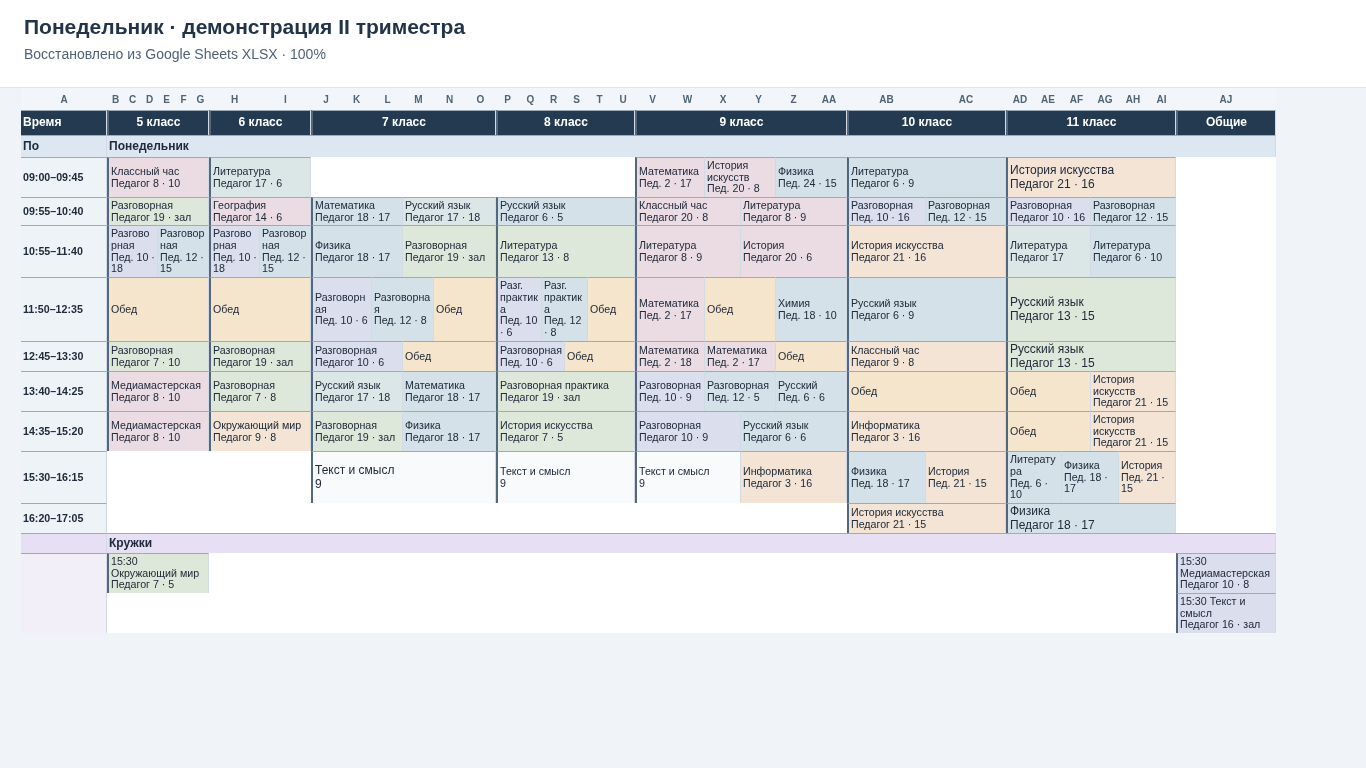
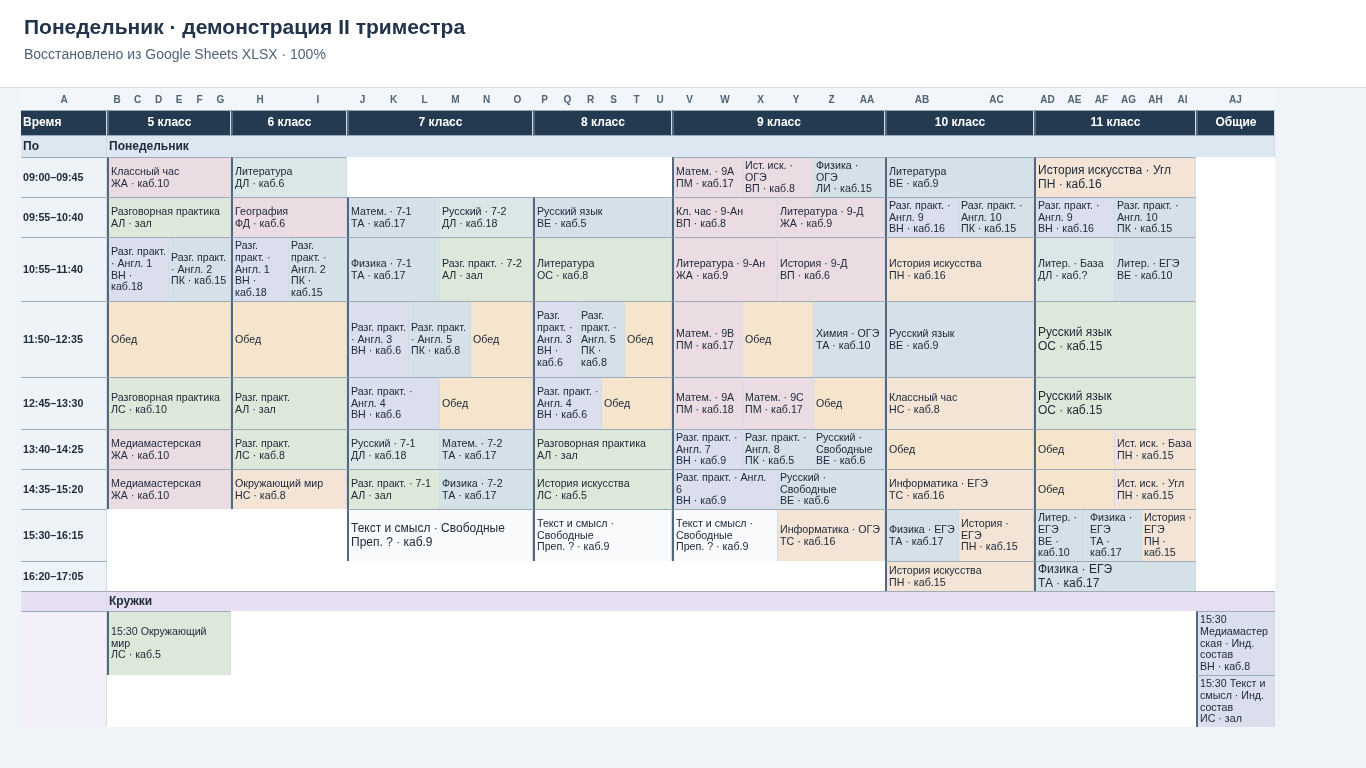
Show complete Wednesday and Friday exports with inline groups

Changed region(s): [[0.0, 0.125, 0.9531, 0.9375], [0.369, 0.125, 0.4919, 0.1875], [0.2767, 0.125, 0.3382, 0.1875]]

diff --git a/docs/reports/school-sheet-export/class-layout/README.md b/docs/reports/school-sheet-export/class-layout/README.md
@@ -4,8 +4,10 @@
 
 | Класс | 5 | 6 | 7 | 8 | 9 | 10 | 11 | Общие |
 | --- | ---: | ---: | ---: | ---: | ---: | ---: | ---: | ---: |
-| Ширина, px | 102 | 102 | 185 | 139 | 212 | 159 | 170 | 100 |
+| Ширина, px | 124 | 116 | 186 | 139 | 213 | 149 | 162 | 79 |
 
-В карточке видны название, преподаватель и кабинет. Для практикумов, консультаций и лабораторий указан вид занятия. В тесных ячейках используются короткие школьные названия, а полная запись открывается по ссылке из ячейки. Время обычных уроков остаётся в колонке звонков.
+Предмет, преподаватель, группа при делении и кабинет видны прямо в ячейке. Подписи используют школьные сокращения. У урока для всего класса обозначение класса уже есть в шапке. «Преп. ?» и «каб.?» отмечают поля, которых нет в записи. Неопределённая группа выделена подписью «Группа требует уточнения». В примере среды на 09:00 единственная карточка математики занимает весь 9-й класс и сохраняет подпись 9B. На 11:50 видна разница между учебными группами 7-1/7-2 и административными 9-Ан/9-Д.
 
-Снимки сделаны на обезличенном расписании r98 по XLSX из тестовой Google-книги при 1366×768 и масштабе 100%. Ширина всей сетки 1255 px. Высота по дням с понедельника по пятницу составила 523, 439, 549, 506 и 468 px. Проверены закрепление верхней строки, ссылки и 365 исходных ID. [Понедельник](monday.png) · [Среда](wednesday.png) · [Пятница](friday.png) · [Тестовый лист](https://docs.google.com/spreadsheets/d/1DWB20meRVsS7nKLBqX0LSoQ2PZcTmzrnFS6WE9qhbwk/edit#gid=730152&range=A27)
+Снимки сделаны при 1366×768 и масштабе 100% по XLSX, скачанному из тестовой Google-книги. На обезличенной копии ширина сетки 1254 px, высота среды 589 px и пятницы 638 px. В расчёте по исходным школьным подписям высота сетки среды 667 px, пятницы 674 px. Вместимость с панелями Google Sheets зависит от доступной области окна. Нативный интерфейс не использован для замеров.
+
+В тестовой вкладке 74 видимые строки, 0 ссылок и 0 примечаний. Сверены текст ячеек, объединения, заголовки дней и все 365 исходных ID в скрытой карте. [Понедельник](monday.png) · [Среда](wednesday.png) · [Пятница](friday.png) · [Тестовый лист](https://docs.google.com/spreadsheets/d/1DWB20meRVsS7nKLBqX0LSoQ2PZcTmzrnFS6WE9qhbwk/edit#gid=730154&range=A27)
